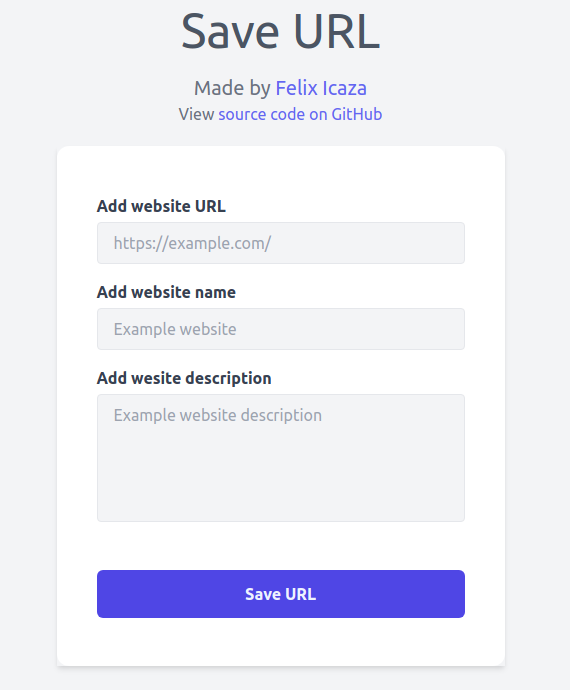
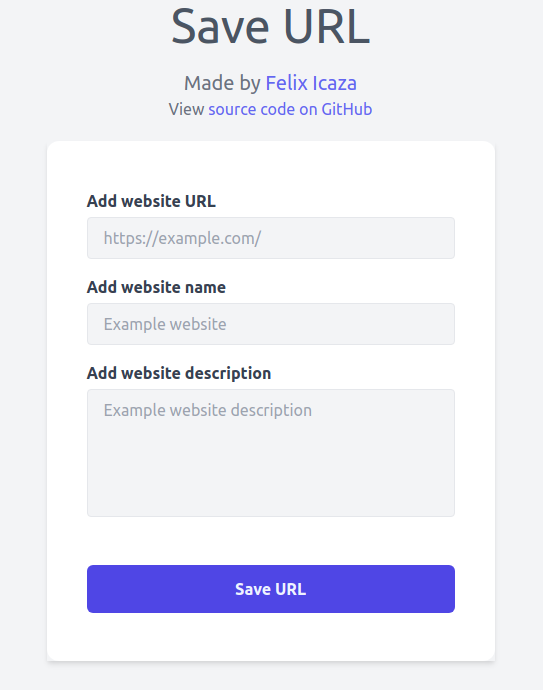
Small fixes

diff --git a/src/components/LinkForm.js b/src/components/LinkForm.js
@@ -83,7 +83,7 @@ const LinkForm = props => {
           className='text-gray-700 font-bold block mb-2'
           htmlFor='description'
         >
-          <p className='mb-1'>Add wesite description</p>
+          <p className='mb-1'>Add website description</p>
           <textarea
             className='border bg-gray-100 py-2 px-4 w-full block h-32 resize-none outline-none focus:ring-2 focus:ring-indigo-400 rounded'
             name='description'

diff --git a/src/components/Links.js b/src/components/Links.js
@@ -70,7 +70,7 @@ const Links = () => {
           Made by&nbsp;
           <a
             className='text-indigo-500 hover:underline transition-all'
-            href='https://felixicaza.com'
+            href='https://felixicaza.com?utm_source=react-firestore-crud&utm_medium=cpc&utm_campaign=GitHub&utm_id=github'
             target='_blank'
             rel='noreferrer'
           >
